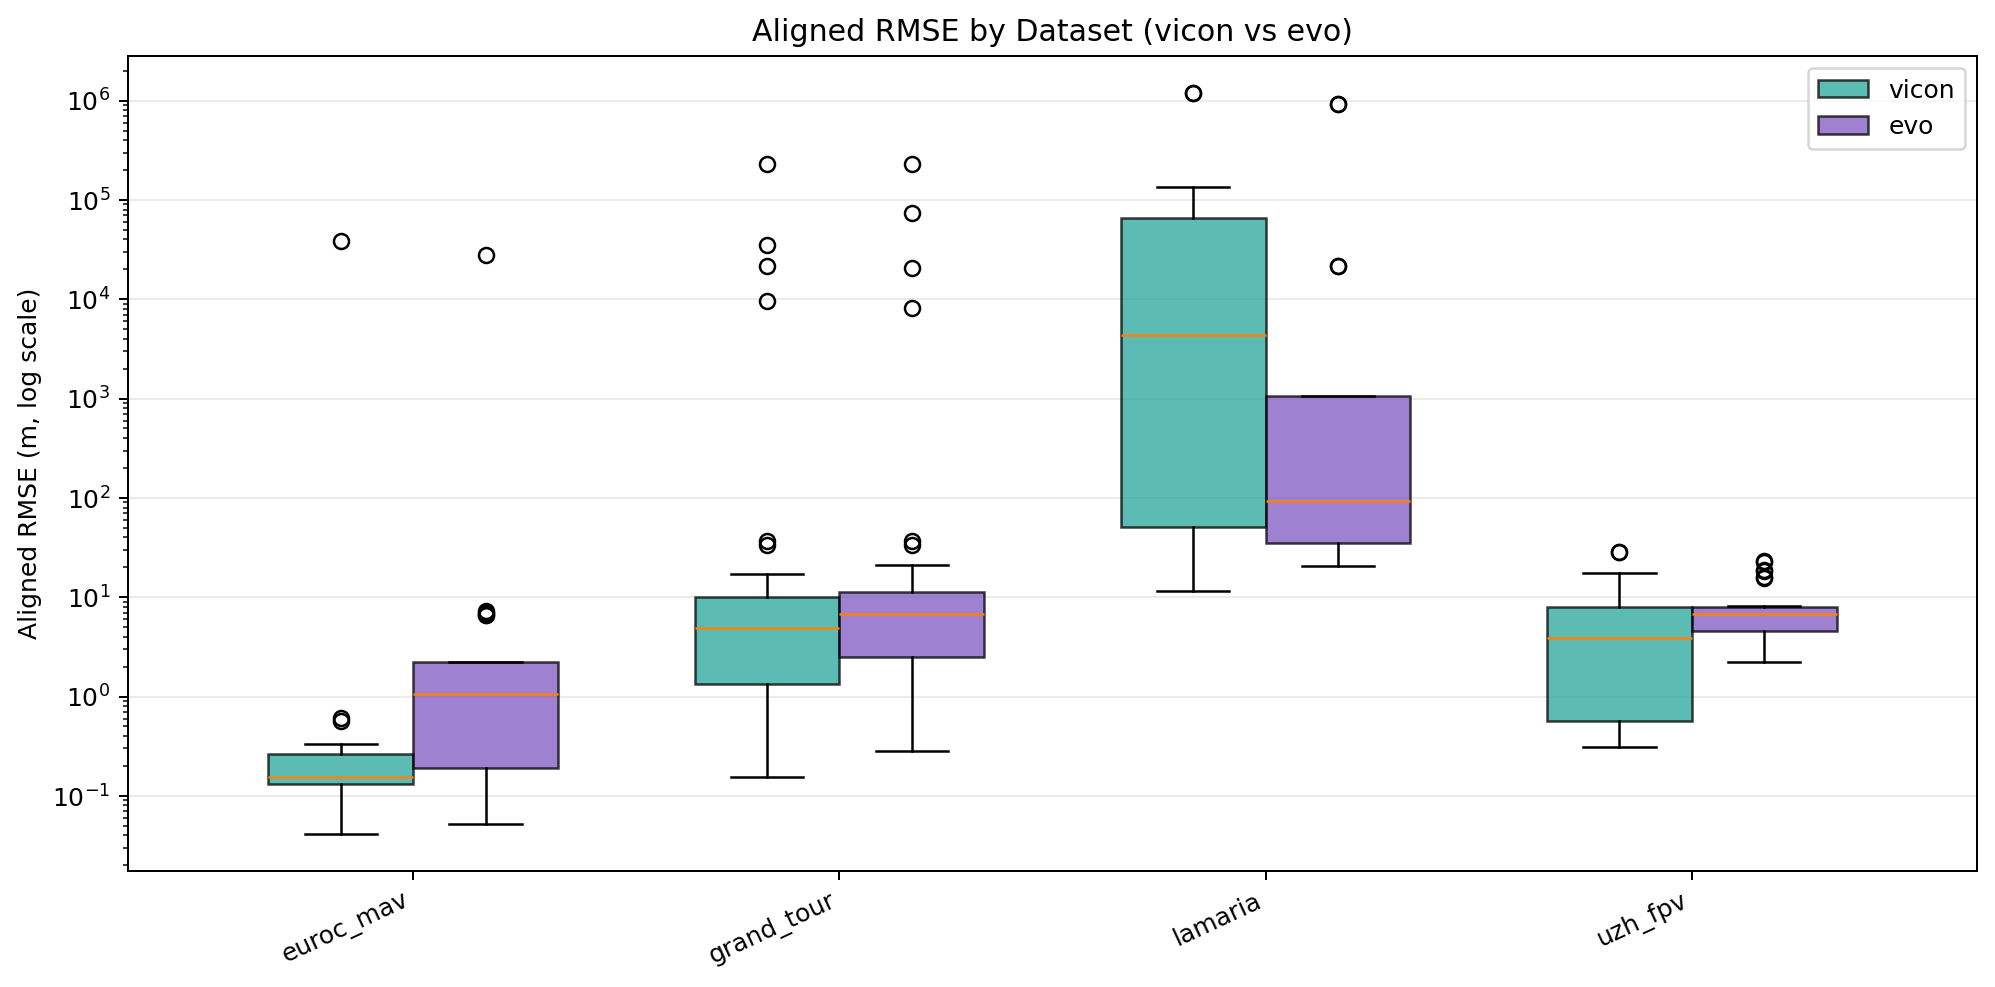
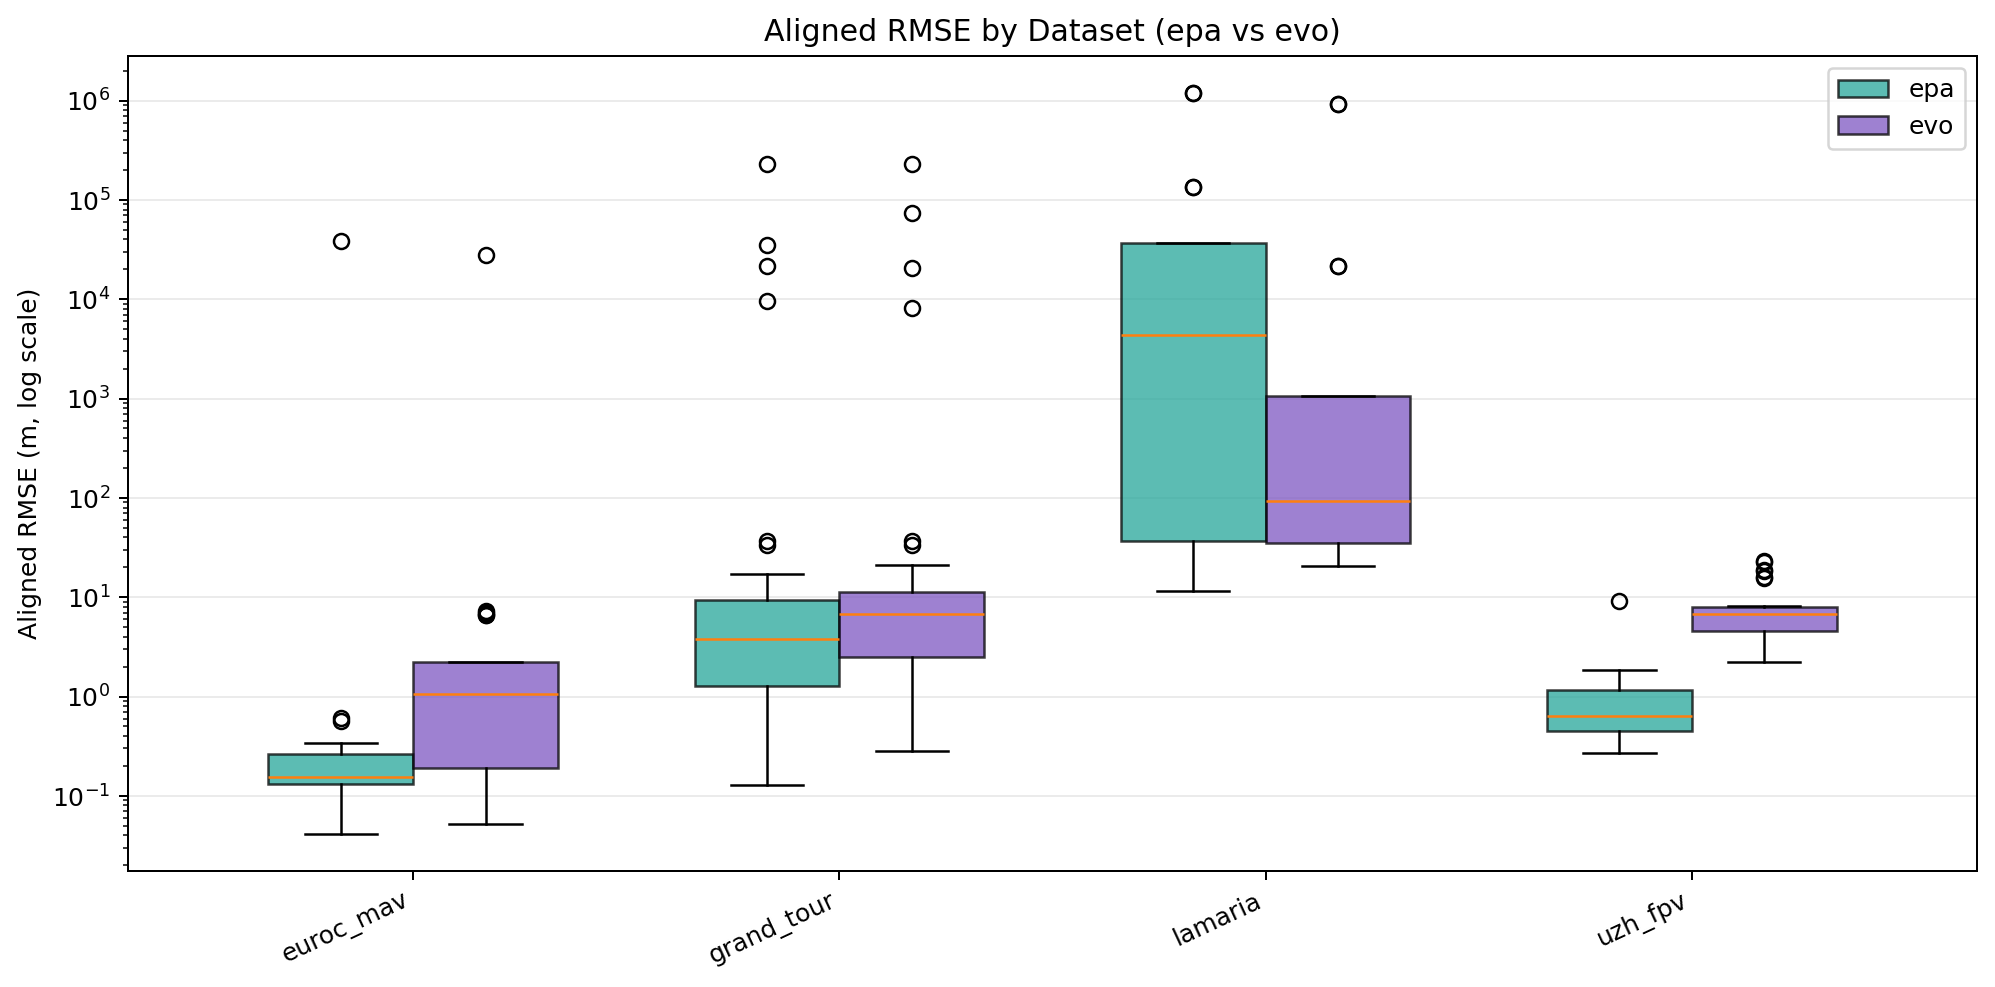
Refine docs structure, styling, and benchmark pages

diff --git a/docs/stylesheets/openvins-like.css b/docs/stylesheets/openvins-like.css
@@ -223,6 +223,41 @@ code {
   color: #ffd7a8;
 }
 
+.hljs-keyword,
+.hljs-selector-tag,
+.hljs-literal,
+.hljs-name {
+  color: #8fd3ff;
+}
+
+.hljs-title,
+.hljs-title.class_,
+.hljs-title.function_,
+.hljs-function .hljs-title,
+.hljs-section,
+.hljs-attr,
+.hljs-attribute,
+.hljs-selector-id,
+.hljs-selector-class,
+.hljs-link {
+  color: #9ee6ff;
+}
+
+.hljs-number,
+.hljs-symbol,
+.hljs-bullet,
+.hljs-variable,
+.hljs-params,
+.hljs-type,
+.hljs-built_in {
+  color: #b8e7ff;
+}
+
+.hljs-comment,
+.hljs-meta {
+  color: #b3c7db;
+}
+
 .code-copy-button {
   position: absolute;
   top: 0.6rem;

diff --git a/docs/benchmark_workflow.md b/docs/benchmark_workflow.md
@@ -1,4 +1,4 @@
-# Benchmark
+# Benchmark Workflow
 
 This page covers the batch evaluation tools provided by `epica`, including case discovery, repeated execution, and summary analysis. The main commands on this page are `epa_bench` and `epa_benchall`.
 
@@ -16,21 +16,7 @@ It:
 
 - discover benchmark cases from prepared dataset and ground-truth directories
 - run `epa` on each case
-- run the comparison pipeline on the same case
 - write per-case JSON records, logs, and summary tables
-
-## Fairness and Comparison Logic
-
-The harness evaluates `epa` and the comparison pipeline independently.
-
-Important properties:
-
-- offsets are not shared between systems
-- `epa` uses its own internal step-1 time alignment estimate
-- the comparison pipeline uses its own offset search logic inside the harness
-- summary tables record both systems' offsets, match counts, and final errors
-
-This avoids giving one system the timing result produced by the other.
 
 ## Required Inputs
 
@@ -47,7 +33,6 @@ Before running the harness, make sure you have:
 - a cases root with `benchmark/` and `GT/`
 - the `epica` repository root
 - a Python 3.10+ executable that can run `epica`
-- the comparison repository path if you want cross-tool benchmarking
 
 The harness exposes these main path options:
 
@@ -55,7 +40,6 @@ The harness exposes these main path options:
 - `--repo-root`
 - `--python-bin`
 - `--epa-src`
-- `--evo-repo`
 
 ## Basic Run
 
@@ -65,15 +49,14 @@ If you want the main batch benchmark workflow, start here:
 epa_bench \
   --cases-root /home/username/epa_data/benchmark_cases \
   --repo-root /home/username/epa \
-  --python-bin /home/username/miniconda3/envs/epa/bin/python \
-  --evo-repo /home/username/evo
+  --python-bin /home/username/miniconda3/envs/epa/bin/python
 ```
 
 This command:
 
 1. discover benchmark cases
 2. prepare temporary TUM trajectories for each case
-3. run `epa` and the comparison pipeline independently
+3. run `epa` on each case
 4. aggregate the per-case outputs into a summary table
 
 ## Full Multi-Case Workflow
@@ -90,8 +73,7 @@ Typical command:
 epa_benchall \
   --cases-root /home/username/epa_data/benchmark_cases \
   --repo-root /home/username/epa \
-  --python-bin /home/username/miniconda3/envs/epa/bin/python \
-  --evo-repo /home/username/evo
+  --python-bin /home/username/miniconda3/envs/epa/bin/python
 ```
 
 ## Per-Case Visualization (Raw / GT / Aligned)
@@ -142,7 +124,6 @@ epa_bench \
   --cases-root /home/username/epa_data/benchmark_cases \
   --repo-root /home/username/epa \
   --python-bin /home/username/miniconda3/envs/epa/bin/python \
-  --evo-repo /home/username/evo \
   --case-pattern euroc \
   --dry-run
 ```
@@ -154,30 +135,9 @@ epa_bench \
   --cases-root /home/username/epa_data/benchmark_cases \
   --repo-root /home/username/epa \
   --python-bin /home/username/miniconda3/envs/epa/bin/python \
-  --evo-repo /home/username/evo \
   --methods rovio,svo_stereo \
   --limit 20
 ```
-
-## Time Alignment Sweep Controls
-
-The harness exposes offset-search controls for the comparison side of the benchmark:
-
-- `--t-max-diff`
-- `--offset-min`
-- `--offset-max`
-- `--offset-coarse-step`
-- `--offset-refine-window`
-- `--offset-refine-step`
-- `--min-match-ratio`
-
-These options control the comparison-side offset sweep.
-
-In practice:
-
-- widen the offset range if you expect larger timestamp drift
-- reduce step size if you want finer offset search
-- increase `min-match-ratio` if you want to reject weak associations
 
 ## Output Structure
 
@@ -222,25 +182,20 @@ Common contents:
 - `harness_config.json`: the run configuration snapshot
 - `unresolved_cases.csv`: discovered but unresolved cases, when applicable
 
-![Benchmark status counts](images/benchmark_status_counts.png)
-
-*Example benchmark summary: case status counts.*
-
 ## Key Columns in `summary.csv`
 
 Important fields include:
 
 - `case`, `dataset`, `method`
-- `status`, `epa_status`, `evo_status`
-- `epa_offset_est_s`, `evo_offset_s`
+- `status`, `epa_status`
+- `epa_offset_est_s`
 - `epa_ate_rmse_raw_m`, `epa_ate_rmse_step3_m`
-- `evo_ape_raw_rmse_m`, `evo_ape_se3_rmse_m`
-- `epa_improve_pct`, `evo_improve_pct`
-- `epa_matches_equivalent`, `evo_matches`
+- `epa_improve_pct`
+- `epa_matches_equivalent`
 - `epa_run_dir`
 - `error`
 
-These fields cover both metric comparison and failure diagnosis.
+These fields cover per-case metrics, output locations, and failure diagnosis.
 
 ## Summary Plot Generation
 
@@ -262,20 +217,8 @@ By default, plots are written to:
 Typical figures:
 
 - status count chart
-- aligned RMSE scatter plot
-- improvement percentage scatter plot
-- match-count scatter plot
-- offset distribution histogram
-- dataset-level aligned RMSE box plot
 - top-case aligned RMSE chart
-
-![Aligned RMSE scatter plot](images/benchmark_aligned_rmse_scatter_log.png)
-
-*Example benchmark comparison: aligned RMSE for `epa` vs the comparison pipeline.*
-
-![Aligned RMSE by dataset](images/benchmark_aligned_rmse_by_dataset_box.png)
-
-*Example benchmark comparison grouped by dataset.*
+- other benchmark summary figures under `<summary_dir>/plots/`
 
 Useful option:
 
@@ -363,12 +306,10 @@ If a harness run is incomplete or noisy, check these first:
 
 - the Python executable passed with `--python-bin`
 - the cases root path
-- the comparison repository path
 - unresolved cases listed in `unresolved_cases.csv`
 - per-case stderr logs under `logs/`
 
 If many cases have poor match counts, revisit:
 
 - `t-max-diff`
-- offset sweep range
 - minimum match ratio

diff --git a/docs/tool_comparison.md b/docs/tool_comparison.md
@@ -1,4 +1,4 @@
-# Benchmark Study
+# Tool Comparison
 
 This page summarizes a direct benchmark study in which `epica` and `evo` were evaluated separately on 139 cases from the `euroc_mav`, `grand_tour`, `lamaria`, and `uzh_fpv` datasets.
 
@@ -22,11 +22,11 @@ Interpretation:
 - `epica` has a much lower median aligned RMSE.
 - Excluding critical cases removes the heavy-tailed failure regime and gives a clearer view of normal-case performance.
 
-<img src="images/benchmark_study_aligned_rmse_scatter.png" alt="Aligned RMSE scatter" style="width:72%; display:block; margin:0 auto;">
+<img src="../images/benchmark_study_aligned_rmse_scatter.png" alt="Aligned RMSE scatter" style="width:72%; display:block; margin:0 auto;">
 
 *Aligned RMSE scatter on non-critical comparable cases. Points below the diagonal favor `epica`.*
 
-<img src="images/benchmark_study_aligned_rmse_ecdf.png" alt="Aligned RMSE ECDF" style="width:72%; display:block; margin:0 auto;">
+<img src="../images/benchmark_study_aligned_rmse_ecdf.png" alt="Aligned RMSE ECDF" style="width:72%; display:block; margin:0 auto;">
 
 *Aligned RMSE ECDF on non-critical comparable cases. A left-shifted curve indicates better overall error distribution.*
 
@@ -57,17 +57,17 @@ Interpretation:
 - Dataset `lamaria` is excluded from the non-critical comparison because all comparable cases in the current run are classified as critical.
 - Ties are omitted from the dataset win column; in the current run they are `7` for `euroc_mav`, `24` for `grand_tour`, and `0` for `uzh_fpv`.
 
-<img src="images/benchmark_study_dataset_boxplot.png" alt="Per-dataset boxplot" style="width:72%; display:block; margin:0 auto;">
+<img src="../images/benchmark_study_dataset_boxplot.png" alt="Per-dataset boxplot" style="width:72%; display:block; margin:0 auto;">
 
 *Per-dataset aligned RMSE distribution for non-critical comparable cases.*
 
-<img src="images/benchmark_study_win_tie_loss_stacked.png" alt="Win tie loss stacked bar" style="width:72%; display:block; margin:0 auto;">
+<img src="../images/benchmark_study_win_tie_loss_stacked.png" alt="Win tie loss stacked bar" style="width:72%; display:block; margin:0 auto;">
 
 *Win / tie / loss counts under the benchmark-study winner rule.*
 
 ## Per-Case Comparison
 
-<img src="images/benchmark_study_improvement_box.png" alt="Improvement boxplot" style="width:72%; display:block; margin:0 auto;">
+<img src="../images/benchmark_study_improvement_box.png" alt="Improvement boxplot" style="width:72%; display:block; margin:0 auto;">
 
 *Improvement percentage distribution, added as an extra view for quick comparison.*
 

diff --git a/docs/index.md b/docs/index.md
@@ -67,6 +67,6 @@ Advanced utilities such as `epa_config`, `epa_fig`, `epa_plot_summary`, and `epa
 
 - [Quick Start](quickstart.md): run your first example end to end
 - [CLI Reference](cli.md): look up commands and frequently used options
-- [Benchmark](benchmark.md): run batch evaluation and generate summary artifacts
+- [Benchmark Workflow](benchmark_workflow.md): run batch evaluation and generate summary artifacts
 - [Troubleshooting](troubleshooting.md): resolve common setup and runtime issues
 - [Architecture](architecture.md): understand the pipeline internals and module layout

diff --git a/docs/cli.md b/docs/cli.md
@@ -20,7 +20,7 @@ Utilities:
 - `epa_config`: manage reusable global and tool-level defaults
 - `epa_fig`: re-render plots from serialized plot bundles
 
-Benchmark tools are documented separately in [Benchmark](benchmark.md).
+Benchmark tools are documented separately in [Benchmark Workflow](benchmark_workflow.md).
 
 ## Shared Concepts
 

diff --git a/docs/quickstart.md b/docs/quickstart.md
@@ -245,5 +245,5 @@ epa_config --help
 ## Next Steps
 
 - Go to [CLI Reference](cli.md) for command-level options
-- Go to [Benchmark](benchmark.md) for batch evaluation workflows
+- Go to [Benchmark Workflow](benchmark_workflow.md) for batch evaluation workflows
 - Go to [Troubleshooting](troubleshooting.md) if your first run fails
